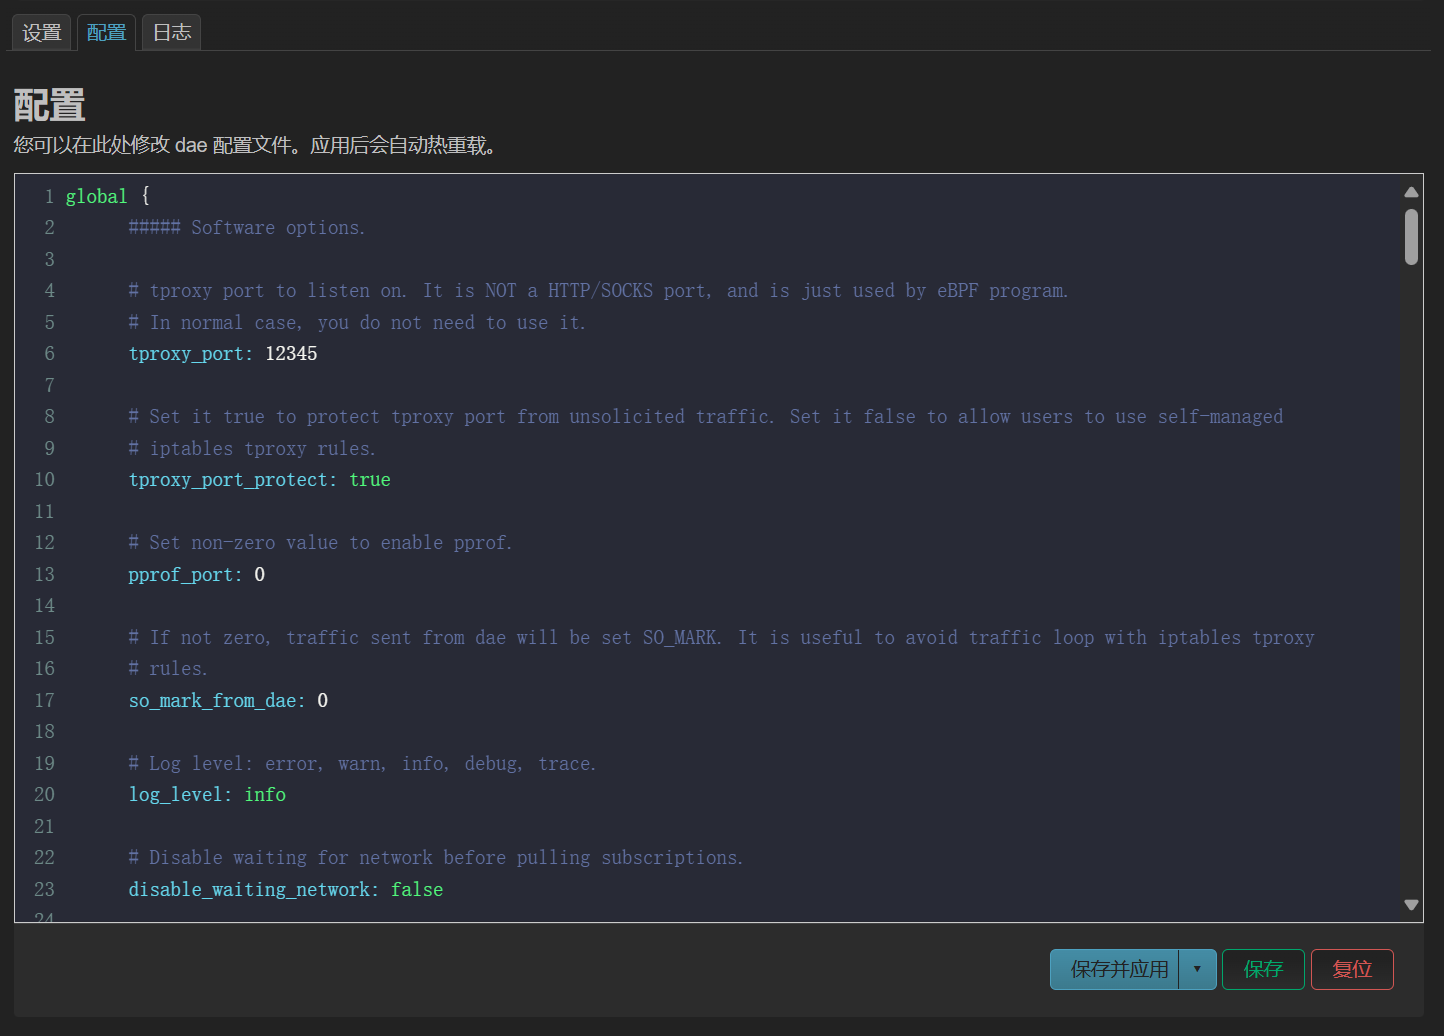
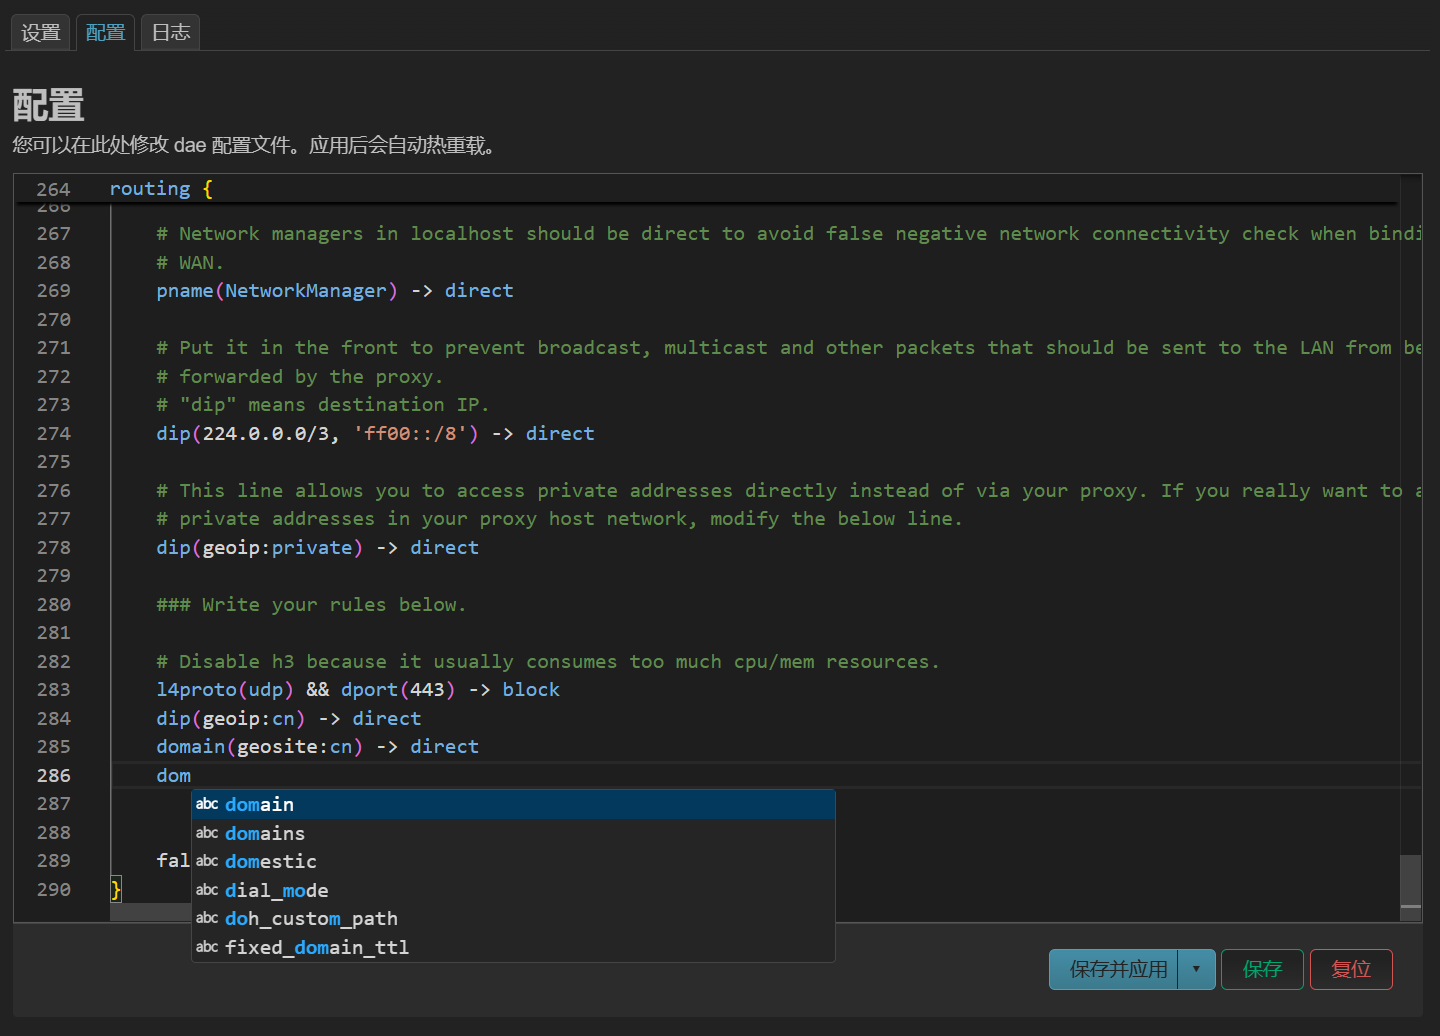
docs: update README.md Signed-off-by: JohnsonRan <me@ihtw.moe>

diff --git a/README.md b/README.md
@@ -1,14 +1,19 @@
+<div align="center">
+
 # InfinityDuck
+
+</div>
 <p align="center"><img src="img/duck.png" border="0" width="16%"></p><br>
 
 This project is based on [luci-app-dae](https://github.com/immortalwrt/luci/tree/master/applications/luci-app-dae), originally maintained by [Tianling Shen](https://github.com/1715173329).
 
 ## New Features:
-- Syntax highlighting provided by CodeMirror
-- Latest version of dae core
+- Latest commit version of dae core
+- Powerful config editor provided by monaco-editor
+- Simple config file validation
 - Reversed log order with scrollbar
 - Log highlighting and filtering
-- Simple Configuration File Validation
+
 
 ## Compilation
 1. Install dependencies
